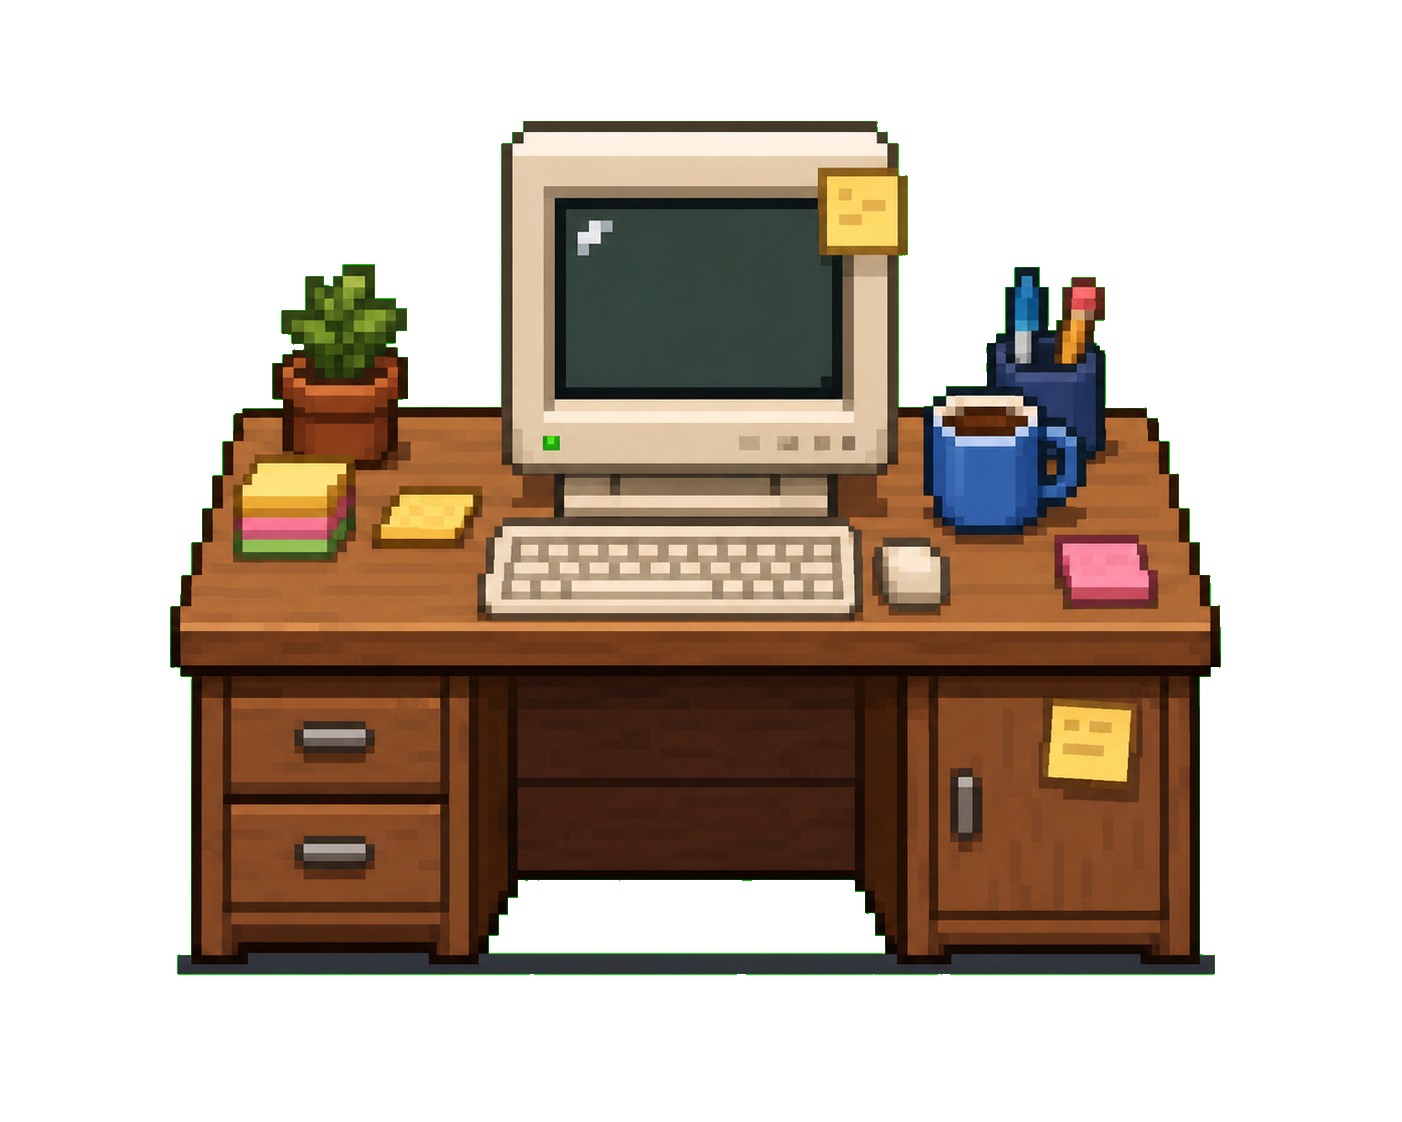
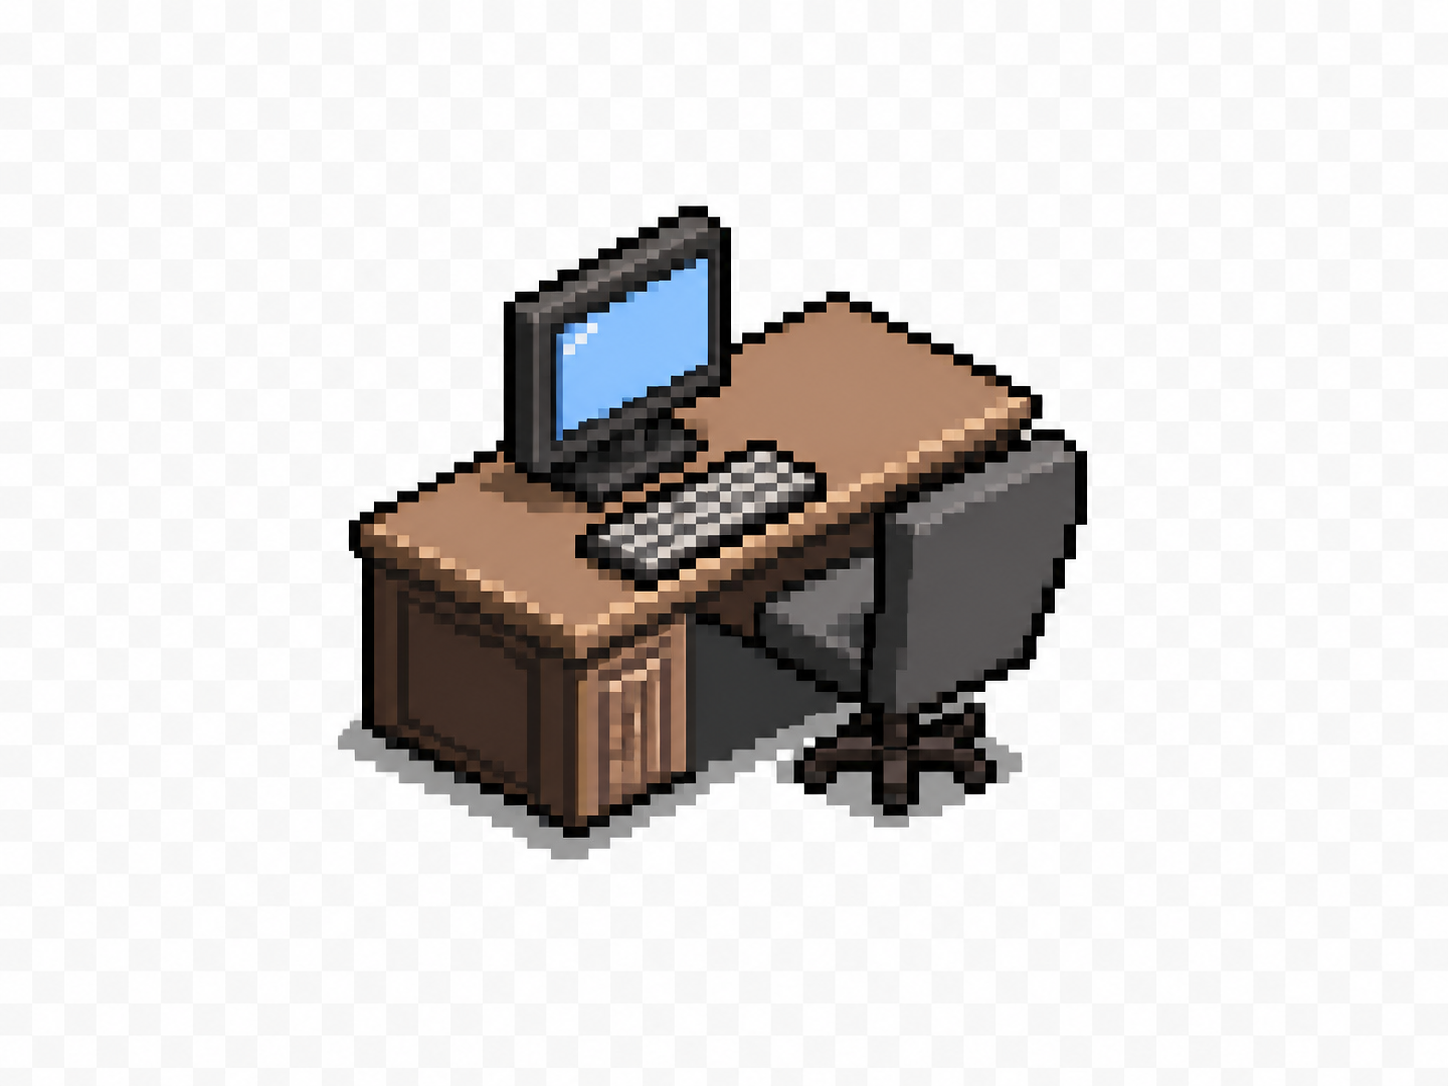
app: 사무실 isometric 전환 — gpt-image-2 장면 배경 통합
- office-bg.png: 레퍼런스(references/kairosoftgame_image.jpg) 첨부 장면 통생성 —
  낱장 가구는 정면 뷰로 회귀하던 것이 장면 단위에선 2:1 iso 정확히 따름
- PixelOffice: SVG Floor/Walls/Zones/가구/DeskSprite → 배경 1장 + 3:2 aspect 고정
  컨테이너 (% anchor 안정화). 컴포넌트 파일은 보존 (롤백용)
- SEATS 재매핑: PM=상단 단독 책상, 직원 5명=대각 2열, 6번째 책상 공석(신규 슬롯),
  사장=입구 옆 / 회의 좌표도 테이블(74,41) 둘레로 재배치
- Zones 사각형은 iso와 안 맞아 회수 → 회의/회고 cue는 테두리 glow로
- 가구 낱장 최종본 + vending-plant(iso 성공분) 백업 보존

ref: docs/skills/pixel-office-design.md "AI 생성 리소스"

diff --git a/app/src/renderer/src/components/PixelOffice.tsx b/app/src/renderer/src/components/PixelOffice.tsx
@@ -2,10 +2,7 @@ import { useEffect, useMemo, useState } from 'react';
 import type { EmployeeProfile, QuarterMeta } from '../../../shared/ipc';
 import type { EmployeeRow } from '../state/employee-store';
 import { MessageInput } from './MessageInput';
-import { DeskSprite, WorkerAtSeat } from './pixel-office/Desk';
-import { Floor } from './pixel-office/Floor';
-import { MeetingTable } from './pixel-office/MeetingTable';
-import { Sofa } from './pixel-office/Sofa';
+import { WorkerAtSeat } from './pixel-office/Desk';
 import {
   fromHour,
   TIME_CYCLE,
@@ -13,11 +10,9 @@ import {
   timeOfDayLabel,
   type TimeOfDay,
 } from './pixel-office/TimeOverlay';
-import { Walls } from './pixel-office/Walls';
-import { WaterCooler } from './pixel-office/WaterCooler';
 import { Whiteboard } from './pixel-office/Whiteboard';
-import { Zones } from './pixel-office/Zones';
 import type { Role } from './pixel-office/palette';
+import officeBg from '../assets/pixel-office/office-bg.png';
 
 type Props = {
   pmPending: boolean;
@@ -40,14 +35,16 @@ type Seat = {
   meetingY: number;
 };
 
-// 회의 테이블 중심 x=82, y=30. 둘레 6명 — PM이 top center에서 주재.
+// gpt-image-2 isometric 배경(office-bg.png, 3:2) 기준 % anchor.
+// PM=상단 단독 책상, 직원 5명=대각 2열 (6번째 책상은 공석 — 신규 직원 슬롯).
+// 회의 테이블 중심 ≈ (74,41). 둘레 6명 — PM이 top center에서 주재.
 const SEATS: readonly Seat[] = [
-  { employeeId: 'dev-1',     name: '김개발', role: 'Engineer',  x: 18, y: 32, meetingX: 74, meetingY: 22 },
-  { employeeId: 'pm',        name: '박PM',   role: 'PM',        x: 40, y: 32, meetingX: 82, meetingY: 17 },
-  { employeeId: 'dev-arch',  name: '박아키', role: 'Architect', x: 62, y: 32, meetingX: 90, meetingY: 22 },
-  { employeeId: 'planner-1', name: '이기획', role: 'Planner',   x: 18, y: 72, meetingX: 74, meetingY: 38 },
-  { employeeId: 'utility-1', name: '막내',   role: 'Utility',   x: 40, y: 72, meetingX: 82, meetingY: 43 },
-  { employeeId: 'qa-1',      name: '정검증', role: 'QA',        x: 62, y: 72, meetingX: 90, meetingY: 38 },
+  { employeeId: 'pm',        name: '박PM',   role: 'PM',        x: 56, y: 20, meetingX: 74, meetingY: 32 },
+  { employeeId: 'dev-1',     name: '김개발', role: 'Engineer',  x: 25, y: 38, meetingX: 66, meetingY: 36 },
+  { employeeId: 'dev-arch',  name: '박아키', role: 'Architect', x: 35, y: 44, meetingX: 82, meetingY: 36 },
+  { employeeId: 'planner-1', name: '이기획', role: 'Planner',   x: 45, y: 50, meetingX: 66, meetingY: 46 },
+  { employeeId: 'qa-1',      name: '정검증', role: 'QA',        x: 17, y: 53, meetingX: 82, meetingY: 46 },
+  { employeeId: 'utility-1', name: '막내',   role: 'Utility',   x: 27, y: 59, meetingX: 74, meetingY: 50 },
 ];
 
 export function PixelOffice({
@@ -161,7 +158,7 @@ export function PixelOffice({
             <div>
               <div className="text-sm font-medium text-slate-100">사무실</div>
               <div className="text-[10px] text-slate-500">
-                Phase 4 PR2.4 — 회의 모드 (caps prefix 시 직원 회의 테이블 이동) · 작업 중 {workingCount}명
+                isometric bg (gpt-image-2) · 회의: prefix 시 회의 테이블 집합 · 작업 중 {workingCount}명
               </div>
             </div>
             {meetingMode && (
@@ -204,24 +201,28 @@ export function PixelOffice({
           </div>
         </header>
         <section className="flex-1 overflow-hidden p-4">
-          <div className="relative h-full w-full overflow-hidden rounded-lg ring-2 ring-amber-950 shadow-2xl">
-            <Floor />
-            <Walls />
-            <Zones meetingMode={meetingMode} retroMode={retroMode} />
-            <Whiteboard x={82} y={14} quarter={quarter} />
-            <MeetingTable x={82} y={30} />
-            <WaterCooler x={75} y={66} />
-            <Sofa x={84} y={76} />
-
-            {/* 책상 sprite — 회의 모드여도 자리 유지 (빈 의자) */}
-            {SEATS.map((seat) => (
-              <DeskSprite
-                key={`desk-${seat.employeeId}`}
-                x={seat.x}
-                y={seat.y}
-                working={!meetingMode && !!workingMap[seat.employeeId]}
+          {/* 배경이 3:2(1536x1024)라 aspect 고정 — % anchor가 이미지 위 동일 지점에 정착 */}
+          <div
+            className="relative mx-auto h-full max-w-full overflow-hidden rounded-lg ring-2 ring-amber-950 shadow-2xl"
+            style={{ aspectRatio: '3 / 2' }}
+          >
+            {/* isometric 사무실 배경 (gpt-image-2, 레퍼런스: references/kairosoftgame_image.jpg).
+                바닥/벽/책상/회의테이블/휴게존은 배경에 흡수 — 이전 SVG 컴포넌트는 보존(롤백용). */}
+            <img
+              src={officeBg}
+              alt=""
+              className="pointer-events-none absolute inset-0 h-full w-full"
+              style={{ imageRendering: 'pixelated' }}
+            />
+            {/* 회의/회고 모드 cue — 배경 위 테두리 glow (Zones 사각형은 iso와 안 맞아 회수) */}
+            {meetingMode && (
+              <div
+                className={`pointer-events-none absolute inset-0 rounded-lg ring-4 ring-inset ${
+                  retroMode ? 'ring-rose-500/40' : 'ring-emerald-500/40'
+                }`}
               />
-            ))}
+            )}
+            <Whiteboard x={36} y={10} quarter={quarter} />
 
             {/* 캐릭터 — 회의 모드 시 회의 테이블 둘레로 transition */}
             {SEATS.map((seat) => {
@@ -250,10 +251,10 @@ export function PixelOffice({
               );
             })}
 
-            {/* 사장 캐릭터 — 입구 옆 default. 회의 모드 시 회의실 zone 바로 아래(입구쪽)에 서서 PM과 대면 — 회의 테이블 둘레 6명 자리 안 침범. */}
+            {/* 사장 캐릭터 — 입구(좌하단 문) 옆 default. 회의 모드 시 테이블 아래쪽에서 PM과 대면 — 둘레 6명 자리 안 침범. */}
             <WorkerAtSeat
-              x={meetingMode ? 82 : 88}
-              y={meetingMode ? 50 : 50}
+              x={meetingMode ? 74 : 12}
+              y={meetingMode ? 58 : 70}
               role="Boss"
               name="사장"
               working={false}